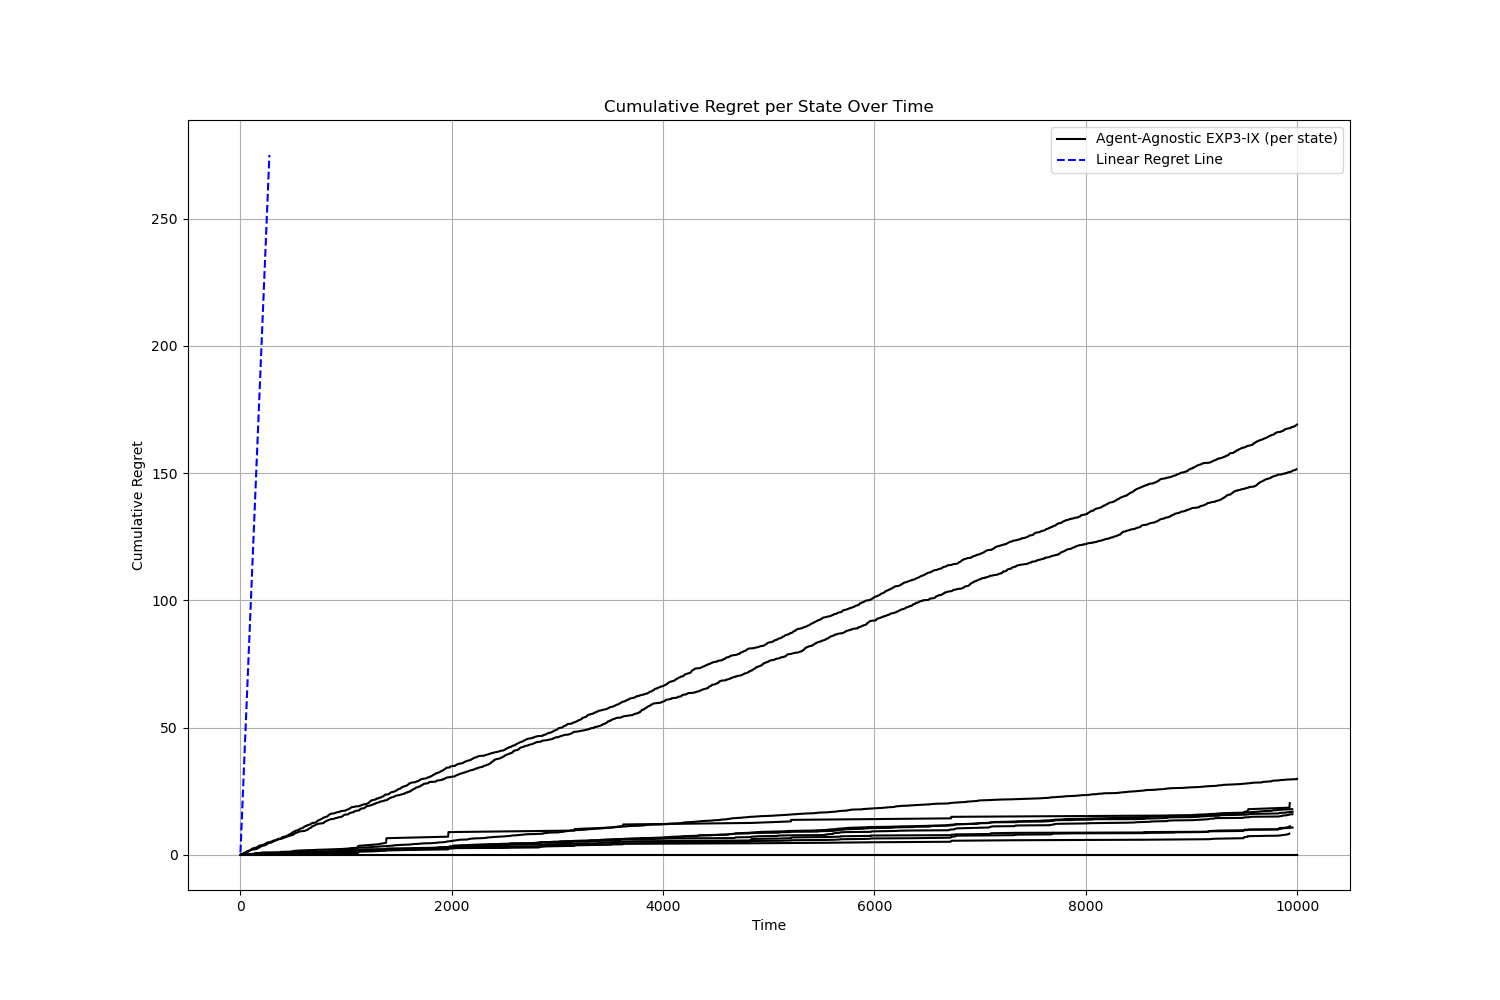
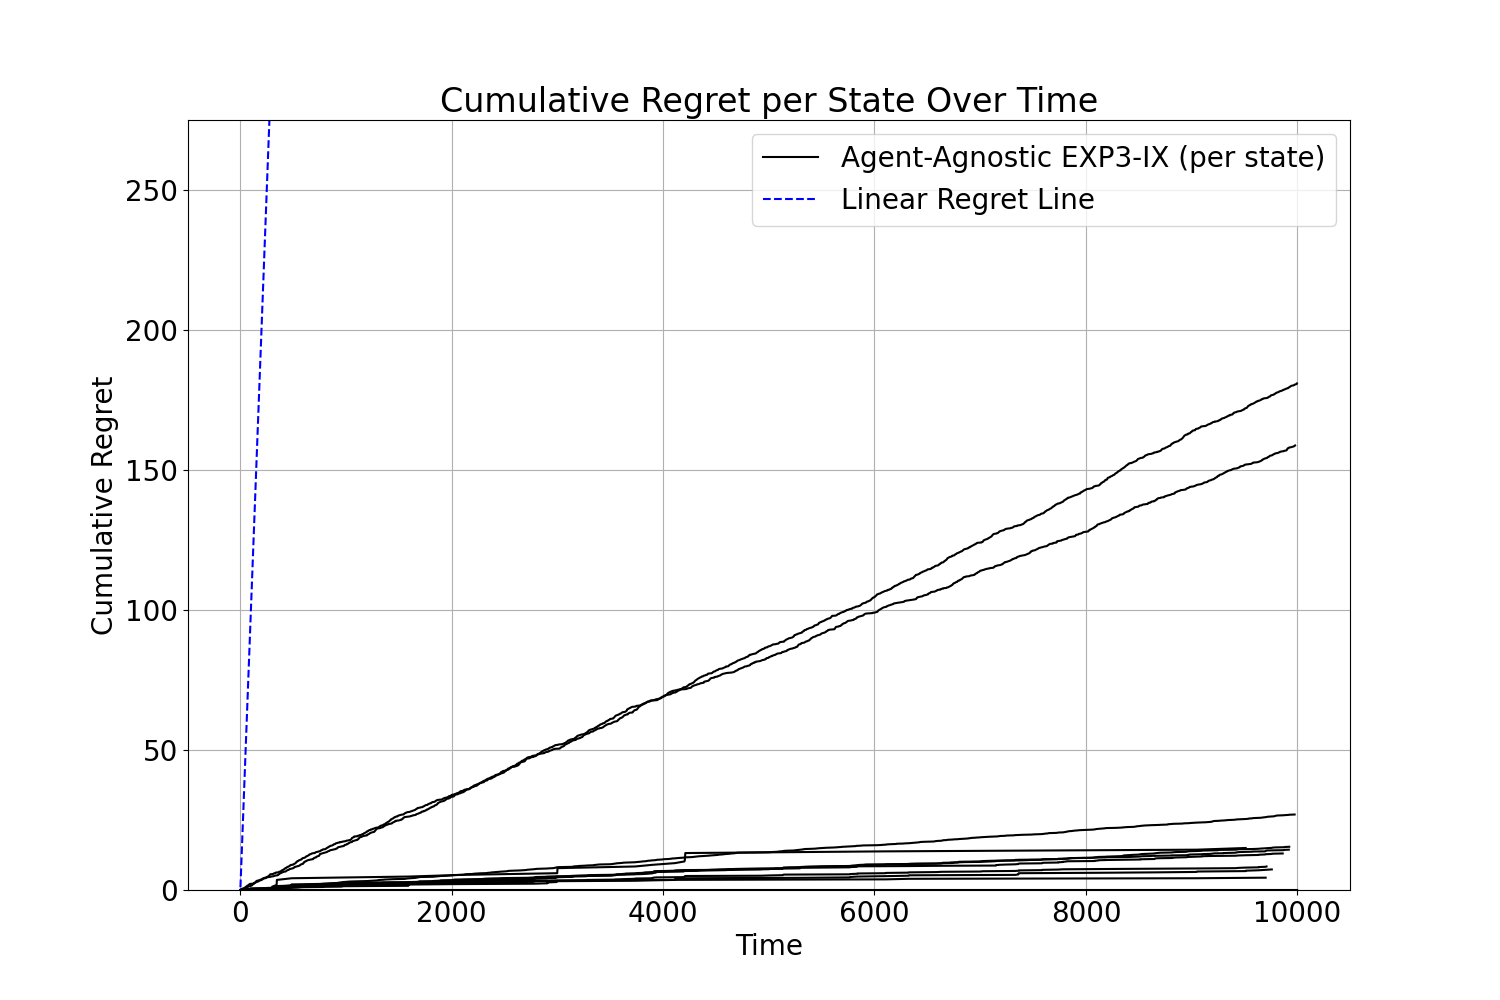
upadte graph

diff --git a/RL/model-implementation/utility.py b/RL/model-implementation/utility.py
@@ -62,10 +62,10 @@ def plot_regret(names_list,regretper_stateIterationEQObserver,regretper_stateEQO
     :param regret_per_state_iteration_list: List of dictionaries with iteration counts for regrets per state for each agent.
     """
     plt.figure(figsize=(15, 10))  
-
+    plt.rcParams.update({'font.size': 20})
     time_steps = np.arange(1, len(regretEQAgent) + 1)
     cumulative_losses = np.cumsum(regretEQAgent)
-    plt.plot(time_steps, cumulative_losses, label="EXP3-IX", color="red",linestyle="solid")
+    # plt.plot(time_steps, cumulative_losses, label="EXP3-IX", color="red",linestyle="solid")
 
     # print(regretper_stateIterationEQObserver)
     islabeled =False
